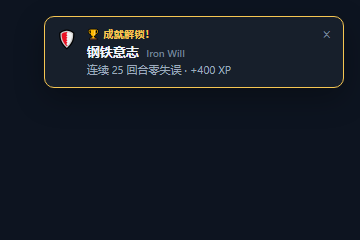
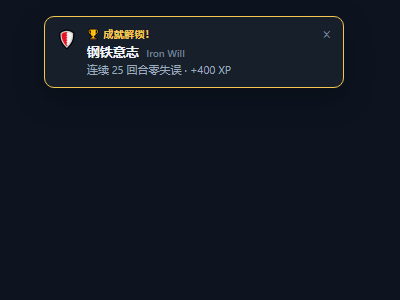
docs: README 同步 P1/P2 新特性 + 重新渲染截图
- 新增小节：新手任务链 / 赛季商店 / 成长周报（含价格表与示意图）
- 等级称号补充徽章与等级用时说明；赛季补充冲刺条说明
- 成就部分补充隐藏成就渐进揭示（🔒→❔）
- 长这样 ASCII 图全面更新（冲刺条/商店/新手链/周报/徽章）
- mock.html 同步新 UI，重新渲染 panel.png / toast.png

Changed region(s): [[0.0917, 0.0292, 0.9472, 0.3792], [0.9472, 0.3208, 0.9778, 0.35], [0.9472, 0.0875, 0.9778, 0.1167]]

diff --git a/screenshots/mock.html b/screenshots/mock.html
@@ -1,4 +1,4 @@
-<!DOCTYPE html>
+<!DOCTYPE html>
 <html lang="zh-CN">
 <head>
 <meta charset="UTF-8">
@@ -23,7 +23,7 @@
   body {
     background: var(--canvas);
     font-family: "Segoe UI", system-ui, -apple-system, "PingFang SC", "Microsoft YaHei", sans-serif;
-    width: 1280px; height: 800px; position: relative; overflow: hidden;
+    width: 1280px; height: 1210px; position: relative; overflow: hidden;
   }
 
   /* ===== 侧边栏 rail ===== */
@@ -101,6 +101,44 @@
   .sec-head { display: flex; align-items: center; justify-content: space-between; }
   .sec-title { font-size: 11px; font-weight: 600; color: var(--muted); text-transform: uppercase; letter-spacing: 0.4px; }
   .sec-date { font-size: 10px; color: var(--quiet); }
+
+  /* 赛季冲刺条 */
+  .sprint { display: flex; align-items: center; gap: 6px; margin-top: 5px; }
+  .sprint-label { font-size: 9px; color: var(--quiet); white-space: nowrap; }
+  .sprint-track { flex: 1; height: 3px; border-radius: 2px; background: color-mix(in srgb, var(--quiet) 30%, transparent); overflow: hidden; }
+  .sprint-fill { height: 100%; border-radius: 2px; background: linear-gradient(90deg, var(--gold), var(--accent)); width: 38%; }
+  .sprint-days { font-size: 9px; color: var(--muted); white-space: nowrap; }
+  .level-since { display: block; font-size: 9px; color: var(--quiet); margin-top: 1px; }
+  .title-badge { font-size: 13px; line-height: 1; margin-left: -2px; }
+
+  /* 商店 */
+  .shop-bar { display: flex; align-items: center; gap: 8px; margin-top: 8px; padding-top: 8px; border-top: 1px solid var(--border); }
+  .shop-balance { font-size: 10px; color: var(--gold); font-weight: 600; }
+  .shop-stock { font-size: 9px; color: var(--muted); }
+  .shop-toggle { margin-left: auto; border: none; background: transparent; color: var(--muted); cursor: pointer; font-size: 11px; }
+  .shop-grid { display: flex; flex-direction: column; gap: 6px; margin-top: 8px; }
+  .shop-item { padding: 7px 9px; border-radius: 9px; background: var(--row); border: 1px solid var(--border); }
+  .shop-item-head { display: flex; align-items: center; gap: 6px; }
+  .shop-item-name { flex: 1; font-size: 11px; color: var(--text); font-weight: 600; }
+  .shop-item-price { font-size: 10px; color: var(--gold); font-weight: 700; }
+  .shop-item-desc { font-size: 10px; color: var(--muted); margin-top: 3px; line-height: 1.4; }
+  .shop-buy { margin-top: 5px; padding: 3px 10px; border: none; border-radius: 7px; background: var(--accent); color: #0b1220; font-size: 10px; font-weight: 700; }
+  .shop-owned { margin-top: 5px; font-size: 10px; color: var(--green); }
+
+  /* 新手任务链 */
+  .tut-row { display: flex; align-items: center; gap: 7px; padding: 3px 0; }
+  .tut-name { flex: 1; font-size: 11px; color: var(--text); }
+  .tut-name.pending { color: var(--muted); }
+  .tut-xp { font-size: 9px; color: var(--gold); }
+  .tut-title { margin-top: 4px; font-size: 11px; color: var(--gold); font-weight: 700; }
+
+  /* 成长周报 */
+  .report-bars { display: flex; align-items: flex-end; gap: 4px; height: 52px; margin-top: 4px; }
+  .report-col { flex: 1; display: flex; flex-direction: column; align-items: center; gap: 2px; min-width: 0; }
+  .report-wrap { flex: 1; width: 100%; display: flex; align-items: flex-end; justify-content: center; }
+  .report-bar { width: 70%; border-radius: 3px; background: linear-gradient(180deg, var(--accent), color-mix(in srgb, var(--accent) 45%, transparent)); }
+  .report-date { font-size: 8px; color: var(--quiet); }
+  .report-legend { margin-top: 4px; font-size: 9px; color: var(--quiet); text-align: center; }
 
   .quest { display: flex; flex-direction: column; gap: 4px; }
   .quest-top { display: flex; align-items: center; justify-content: space-between; gap: 8px; }
@@ -217,8 +255,15 @@
         </div>
         <div class="hero-info">
           <div class="title-row">
-            <span class="title-txt" style="color:var(--gold);text-shadow:0 0 12px rgba(246,198,82,.5)">传说 Legend</span>
+            <span class="title-txt" style="color:var(--gold);text-shadow:0 0 12px rgba(246,198,82,.5)">传说</span>
+            <span class="title-badge">👑</span>
             <span class="season">赛季 2026-S3</span>
+          </div>
+          <span class="level-since">本等级已 3 天</span>
+          <div class="sprint">
+            <span class="sprint-label">🗓 冲刺 38k/100k</span>
+            <div class="sprint-track"><div class="sprint-fill"></div></div>
+            <span class="sprint-days">剩 46 天</span>
           </div>
           <div class="xp-track"><div class="xp-fill"></div></div>
           <div class="xp-row">
@@ -250,6 +295,41 @@
           <div class="quest-top"><span class="quest-label">✅ 查看 1 次进度</span><span class="quest-reward">+20 XP</span></div>
           <div class="quest-track"><div class="quest-fill done" style="width:100%"></div></div>
         </div>
+        <div class="shop-bar">
+          <span class="shop-balance">💰 赛季货币 520</span>
+          <span class="shop-stock">🛡 保险 ×2</span>
+          <button class="shop-toggle">🛒 商店 ▾</button>
+        </div>
+        <div class="shop-grid">
+          <div class="shop-item">
+            <div class="shop-item-head"><span style="font-size:15px">🛡</span><span class="shop-item-name">连击保险</span><span class="shop-item-price">150</span></div>
+            <div class="shop-item-desc">失误回合自动消耗一个，连击不清零</div>
+            <button class="shop-buy">购买</button>
+          </div>
+          <div class="shop-item">
+            <div class="shop-item-head"><span style="font-size:15px">👑</span><span class="shop-item-name">王冠徽章</span><span class="shop-item-price">250</span></div>
+            <div class="shop-item-desc">称号旁展示 👑 王冠徽章</div>
+            <div class="shop-owned">✓ 已拥有</div>
+          </div>
+          <div class="shop-item">
+            <div class="shop-item-head"><span style="font-size:15px">🔥</span><span class="shop-item-name">熔火主题</span><span class="shop-item-price">300</span></div>
+            <div class="shop-item-desc">面板切换为熔火橙配色</div>
+            <button class="shop-buy">购买</button>
+          </div>
+        </div>
+      </div>
+
+      <div class="section">
+        <div class="sec-head">
+          <span class="sec-title">🎓 新手任务</span>
+          <span class="sec-date">5/5 ✅</span>
+        </div>
+        <div class="tut-row"><span style="font-size:13px">✅</span><span class="tut-name">完成首个回合</span><span class="tut-xp">+20</span></div>
+        <div class="tut-row"><span style="font-size:13px">✅</span><span class="tut-name">第一次编辑</span><span class="tut-xp">+20</span></div>
+        <div class="tut-row"><span style="font-size:13px">✅</span><span class="tut-name">完成首个待办</span><span class="tut-xp">+20</span></div>
+        <div class="tut-row"><span style="font-size:13px">✅</span><span class="tut-name">运行第一条命令</span><span class="tut-xp">+20</span></div>
+        <div class="tut-row"><span style="font-size:13px">✅</span><span class="tut-name">查看一次进度</span><span class="tut-xp">+20</span></div>
+        <div class="tut-title">🏅 见习冒险者</div>
       </div>
 
       <div class="section">
@@ -282,12 +362,29 @@
           <div class="cell unlocked">🛡<span class="check">✓</span><span class="cell-xp">+400</span></div>
           <div class="cell locked">🚶<span class="cell-xp">+50</span></div>
           <div class="cell locked">🎖<span class="cell-xp">+100</span></div>
-          <div class="cell hidden-locked">🔒</div>
+          <div class="cell hidden-locked">❔</div>
           <div class="cell hidden-locked">🔒</div>
           <div class="cell hidden-locked">🔒</div>
           <div class="cell locked">🏅<span class="cell-xp">+250</span></div>
           <div class="cell locked">🏆<span class="cell-xp">+500</span></div>
         </div>
+      </div>
+
+      <div class="section">
+        <div class="sec-head">
+          <span class="sec-title">📈 成长周报</span>
+          <button class="wall-toggle">▸</button>
+        </div>
+        <div class="report-bars">
+          <div class="report-col"><div class="report-wrap"><div class="report-bar" style="height:40%"></div></div><span class="report-date">08-09</span></div>
+          <div class="report-col"><div class="report-wrap"><div class="report-bar" style="height:22%"></div></div><span class="report-date">08-10</span></div>
+          <div class="report-col"><div class="report-wrap"><div class="report-bar" style="height:55%"></div></div><span class="report-date">08-11</span></div>
+          <div class="report-col"><div class="report-wrap"><div class="report-bar" style="height:34%"></div></div><span class="report-date">08-12</span></div>
+          <div class="report-col"><div class="report-wrap"><div class="report-bar" style="height:72%"></div></div><span class="report-date">08-13</span></div>
+          <div class="report-col"><div class="report-wrap"><div class="report-bar" style="height:48%"></div></div><span class="report-date">08-14</span></div>
+          <div class="report-col"><div class="report-wrap"><div class="report-bar" style="height:100%"></div></div><span class="report-date">08-15</span></div>
+        </div>
+        <div class="report-legend">最近 7 天 XP</div>
       </div>
 
     </div>

diff --git a/README.md b/README.md
@@ -5,7 +5,7 @@
 > 生态里全是给你摸鱼的小游戏；DevQuest 反其道：**你的工作，就是游戏。**
 
 <p align="center">
-  <strong>📅 每日任务+宝箱</strong> · <strong>🔥 连击加成</strong> · <strong>🏆 44 枚成就+进度</strong> · <strong>📈 等级称号</strong> · <strong>🗓 季度赛季</strong> · <strong>🌍 跨会话全局进度</strong>
+  <strong>📅 每日任务+宝箱</strong> · <strong>🔥 连击加成</strong> · <strong>🛒 赛季商店</strong> · <strong>🏆 44 枚成就+进度</strong> · <strong>🎓 新手任务链</strong> · <strong>📈 成长周报</strong>
 </p>
 
 <p align="center">
@@ -26,6 +26,40 @@
 | 📝 输出 tokens | 每 10k +1 XP |
 | 💥 犯错的回合 | +2 XP（安慰奖） |
 | 💪 犯错后爬起来 | 「东山再起」成就 +100 XP |
+
+### 🎓 新手任务链
+
+刚装上时，5 步主线带你熟悉 DevQuest——每完成一步 **+20 XP**，全部完成额外 **+100 XP** 并解锁专属称号**「见习冒险者」**：
+
+```
+🚶 完成首个回合   ✏ 第一次编辑   📋 完成首个待办
+⌨ 运行第一条命令   👀 查看一次进度   →  🏅 见习冒险者
+```
+
+面板里实时显示进度（`2/5 步`），做完哪步亮哪步，目标感拉满。
+
+### 🛒 赛季商店
+
+**本赛季赚到的 XP 就是货币**（赛季结束清零重计，天然防通胀）。面板每日任务下方直接购买：
+
+| 商品 | 价格 | 效果 |
+|---|---|---|
+| 🛡 连击保险 | 150 / 400（×3） | 失误回合自动消耗一个，**连击不清零** |
+| 🔀 任务重掷 | 120 | 重掷今天的每日任务 |
+| 🔥❄🌿 面板主题 | 300 | 熔火 / 寒霜 / 青翠三款配色 |
+| 👑🌟 称号徽章 | 250 | 称号旁展示王冠 / 星芒徽章 |
+
+买了主题和徽章**永久拥有**；保险和重掷是消耗品，需要时随时补充。
+
+### 📈 成长周报
+
+存档自动记录**每日 XP 与回合数**（保留 30 天），面板底部折叠区展示最近 7 天 XP 柱状图——回看自己一天天变强的轨迹：
+
+```
+📈 成长周报        ▸
+▇▇▇▇▇  ▇▇  ▇▇▇▇▇▇▇  ▇▇▇▇  ▇▇▇▇▇▇▇▇▇  ▇▇▇▇▇▇  ▇▇▇▇▇
+ 08-09 08-10 08-11 08-12 08-13 08-14 08-15
+```
 
 ### 📅 每日任务
 
@@ -67,7 +101,7 @@ Lv.15-19   宗师
 Lv.20+     传说
 ```
 
-每 5 级一档称号（面板与工具显示中文称号），每个里程碑都有成就徽章等着你。
+每 5 级一档称号（面板与工具显示中文称号），每个里程碑都有成就徽章等着你。面板还会显示**本等级已坚持多少天**，升级的瞬间有金色高亮 toast；去商店买一枚 **👑 王冠 / 🌟 星芒徽章**，称号旁边就更闪耀了。
 
 ### 🗓 赛季
 
@@ -75,7 +109,8 @@ Lv.20+     传说
 
 - 跨季度后的第一次活跃自动开启新赛季
 - **赛季 XP / 赛季 tokens 清零重计**，等级与累计 XP 永远保留
-- 面板和 `devquest_status` 显示本赛季进度；「赛季精英」成就按**本赛季**输出 100k tokens 判定
+- 面板顶部有**赛季冲刺条**：本赛季 tokens 输出 vs 100k 目标进度 + 季度剩余天数倒计时
+- 「赛季精英」成就按**本赛季**输出 100k tokens 判定
 
 每个季度都是新的冲刺——**等级是你的历史，赛季是你的本季战绩**。
 
@@ -112,46 +147,52 @@ Lv.20+     传说
 ```
 
 - 纯条件成就（如「东山再起」「清道夫」）不显示进度，达成即解锁，保持惊喜
+- **隐藏彩蛋也有渐进揭示**：进度超过一半时，成就墙里的 🔒 会变成 ❔ 轮廓——你知道它快解锁了，但不知道是什么，悬念拉满
 
 ## 🖥 长这样
 
-侧边栏底部 ⚔ 入口（收起态为紧凑图标），点击弹出面板；成就解锁时右上角弹出金色 toast：
+侧边栏底部 ⚔ 入口（收起态为紧凑图标），点击弹出面板；成就解锁与回合结算时右上角弹出 toast：
 
 <p align="center">
-  <img src="screenshots/panel.png" alt="DevQuest 面板：等级环 / XP 进度 / 每日任务 / 成就墙" width="440">
+  <img src="screenshots/panel.png" alt="DevQuest 面板：等级环 / 冲刺条 / 每日任务+商店 / 新手链 / 成就墙 / 成长周报" width="440">
   <img src="screenshots/toast.png" alt="成就解锁 toast" width="300">
 </p>
 
 面板里是：
 
 ```
-┌────────────────────────────────┐
-│  ⚔ DevQuest           Lv.7    │
-│  ▓▓▓▓▓▓▓▓▓░░░░░       62%     │
-│  工匠 · 赛季 2026-S3            │
-│  🔥 连击 12 ×1.5               │
-│  ────────────────────────────  │
-│  📅 每日任务 2026-08-15        │
-│  ⬜ 完成 5 个回合   3/5  +30   │
-│  ⬜ 调用 20 次工具  12/20 +40  │
-│  ✅ 查看 1 次进度   1/1  +20   │
-│  🎁 领取全清宝箱 +50 XP        │ ← 3 个任务全清后出现
-│  ────────────────────────────  │
-│  🎯 最近的里程碑 · 五十回合 35/50 │ ← 目标引导
-│  ▓▓▓▓▓▓▓▓░░░░░░░░   70%       │
-│  ────────────────────────────  │
-│  ✨ 钢铁意志 Iron Will         │
-│  ✨ 百炼成钢 2h ago            │
-│  [成就墙 30/44 ▸]              │ ← 格子里带进度条
-└────────────────────────────────┘
+┌────────────────────────────────────┐
+│  ⚔ DevQuest               Lv.21   │
+│  ▓▓▓▓▓▓▓▓▓░░░░░           62%     │
+│  传说 👑 · 赛季 2026-S3             │
+│  本等级已 3 天                      │
+│  🗓 冲刺 38k/100k ▓▓▓▓░░ 剩 46 天 │
+│  🔥 连击 12 ×1.5                   │
+│  ───────────────────────────────  │
+│  📅 每日任务 2026-08-15            │
+│  ⬜ 完成 5 个回合   3/5  +30      │
+│  ⬜ 调用 20 次工具  12/20 +40     │
+│  ✅ 查看 1 次进度   1/1  +20      │
+│  🎁 领取全清宝箱 +50 XP           │ ← 全清后出现
+│  💰 赛季货币 520 · 🛒 商店 ▾      │ ← 买保险/主题/徽章
+│  ───────────────────────────────  │
+│  🎓 新手任务 5/5 ✅                │ ← 完成显示称号
+│  🏅 见习冒险者                     │
+│  ───────────────────────────────  │
+│  🎯 最近的里程碑 · 五十回合 35/50  │
+│  ▓▓▓▓▓▓▓▓░░░░░░░░   70%          │
+│  ✨ 钢铁意志 Iron Will             │
+│  [成就墙 30/44 ▸]                 │ ← 格子带进度条、隐藏成就 ❔
+│  📈 成长周报 ▸                    │ ← 7 天 XP 柱状图
+└────────────────────────────────────┘
 ```
 
 面板可拖拽到任意位置（位置会记住）。右下角的 toast 不只是成就——**每个回合结算都会弹**：
 
 ```
-⚔ 回合结算                  ⬆ 升级！Lv.6
+⚔ 回合结算                  ⬆ 升级！Lv.22
 +34 XP · 🔥 ×1.5 · 📅 +30     +212 XP
-完成 1 个回合                  新称号 · 工匠
+完成 1 个回合                  新称号 · 传说
 ```
 
 升级瞬间金色高亮，连击燃烧、任务结算、徽章点亮——全是即时的。
